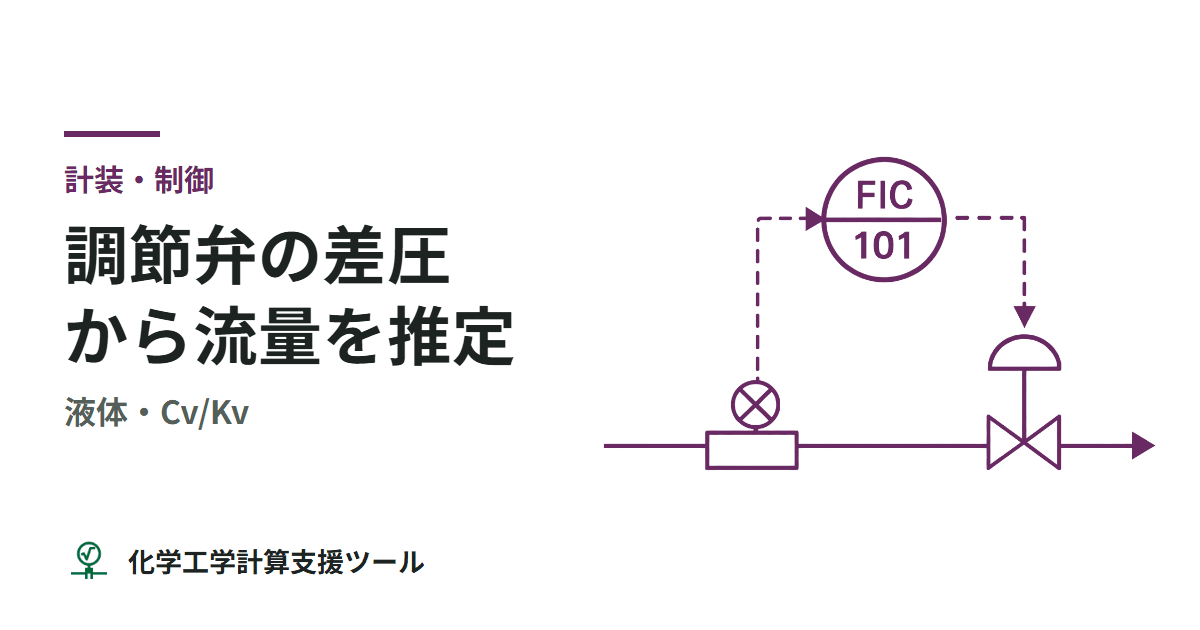
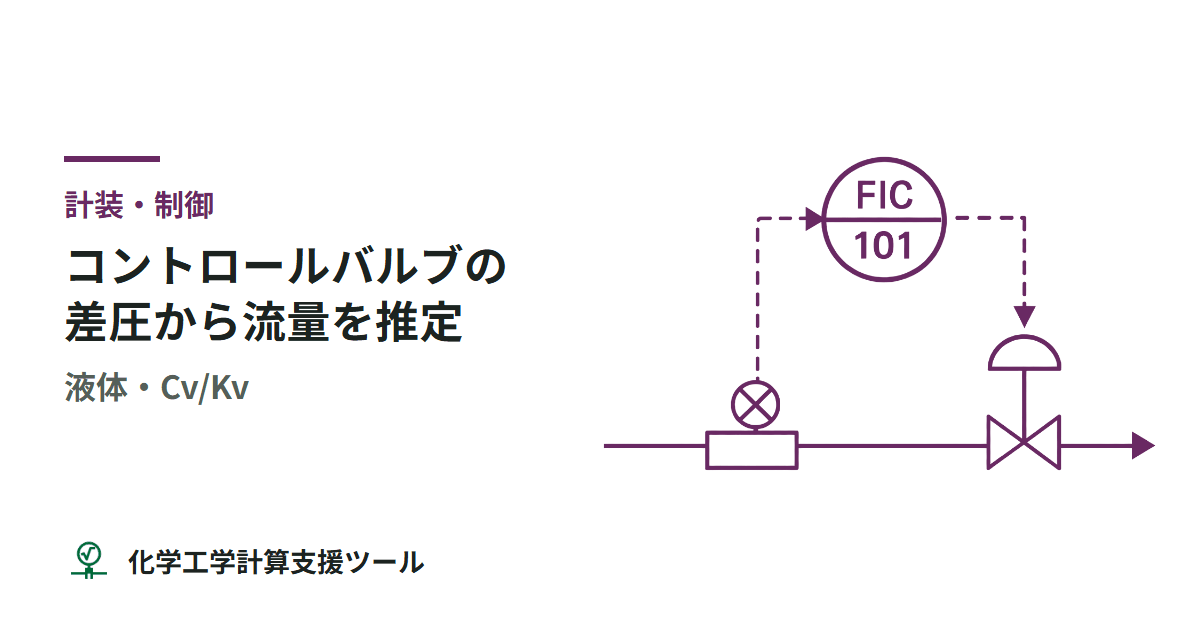
コントロールバルブの書き方にそろえ、差圧から流量を推定するツールの名前と4-20mA信号換算の解説を直す

Changed region(s): [[0.0308, 0.4825, 0.4317, 0.6937], [0.0308, 0.181, 0.4317, 0.4524]]

diff --git a/tools/instrumentation-control/control-valve-flow/index.html b/tools/instrumentation-control/control-valve-flow/index.html
@@ -3,7 +3,7 @@
 <head>
 <meta charset="UTF-8">
 <meta name="viewport" content="width=device-width, initial-scale=1.0">
-<title>調節弁の差圧から流量を推定（液体） | 化学工学計算支援ツール</title>
+<title>コントロールバルブ（調節弁）の差圧から流量を推定（液体） | 化学工学計算支援ツール</title>
 
 
 <link rel="canonical" href="https://tools.chem-fac.com/tools/instrumentation-control/control-valve-flow/">
@@ -18,7 +18,7 @@
 <meta property="og:locale" content="ja_JP">
 <meta name="twitter:card" content="summary_large_image">
 <meta name="twitter:site" content="@chem_fac">
-<script type="application/ld+json">{"@context":"https://schema.org","@type":"WebApplication","name":"調節弁の差圧から流量を推定（液体）","url":"https://tools.chem-fac.com/tools/instrumentation-control/control-valve-flow/","applicationCategory":"EngineeringApplication","operatingSystem":"Any","description":"調節弁の実効CvまたはKv、差圧、運転密度から水・低粘度液体の流量を簡易計算。P1−P2と直接差圧の入力、kPa・MPa・barに対応します。","inLanguage":"ja","isAccessibleForFree":true,"keywords":"調節弁, Cv, Kv, 実効Cv, 差圧, 流量, 液体, 水, 密度, control valve","about":"計装・制御","author":{"@type":"Person","name":"かねまる","url":"https://chem-fac.com/about-chemfac/"},"dateModified":"2026-10-31"}</script>
+<script type="application/ld+json">{"@context":"https://schema.org","@type":"WebApplication","name":"コントロールバルブの差圧から流量を推定（液体）","url":"https://tools.chem-fac.com/tools/instrumentation-control/control-valve-flow/","applicationCategory":"EngineeringApplication","operatingSystem":"Any","description":"コントロールバルブの実効CvまたはKv、差圧、運転密度から水・低粘度液体の流量を簡易計算。P1−P2と直接差圧の入力、kPa・MPa・barに対応します。","inLanguage":"ja","isAccessibleForFree":true,"keywords":"コントロールバルブ, 調節弁, Cv, Kv, 実効Cv, 差圧, 流量, 液体, 水, 密度, control valve","about":"計装・制御","author":{"@type":"Person","name":"かねまる","url":"https://chem-fac.com/about-chemfac/"},"dateModified":"2026-10-31"}</script>
 <link rel="preconnect" href="https://fonts.googleapis.com">
 <link rel="preconnect" href="https://fonts.gstatic.com" crossorigin>
 <link href="https://fonts.googleapis.com/css2?family=Noto+Sans+JP:wght@400;500;600;700&display=swap" rel="stylesheet">
@@ -35,10 +35,10 @@
 
 <script async src="https://www.googletagmanager.com/gtag/js?id=G-7MQ7VEMWHY"></script>
 <script>window.dataLayer=window.dataLayer||[];function gtag(){dataLayer.push(arguments);}gtag('js',new Date());gtag('config','G-7MQ7VEMWHY');</script>
-<meta name="description" content="調節弁の実効CvまたはKv、差圧、運転密度から水・低粘度液体の流量を簡易計算。P1−P2と直接差圧の入力、kPa・MPa・barに対応します。">
-<meta name="keywords" content="調節弁, Cv, Kv, 実効Cv, 差圧, 流量, 液体, 水, 密度, control valve">
-<meta property="og:title" content="調節弁の差圧から流量を推定（液体） | 化学工学計算支援ツール">
-<meta property="og:description" content="調節弁の実効CvまたはKv、差圧、運転密度から水・低粘度液体の流量を簡易計算。P1−P2と直接差圧の入力、kPa・MPa・barに対応します。">
+<meta name="description" content="コントロールバルブの実効CvまたはKv、差圧、運転密度から水・低粘度液体の流量を簡易計算。P1−P2と直接差圧の入力、kPa・MPa・barに対応します。">
+<meta name="keywords" content="コントロールバルブ, 調節弁, Cv, Kv, 実効Cv, 差圧, 流量, 液体, 水, 密度, control valve">
+<meta property="og:title" content="コントロールバルブ（調節弁）の差圧から流量を推定（液体） | 化学工学計算支援ツール">
+<meta property="og:description" content="コントロールバルブの実効CvまたはKv、差圧、運転密度から水・低粘度液体の流量を簡易計算。P1−P2と直接差圧の入力、kPa・MPa・barに対応します。">
 <meta property="og:url" content="https://tools.chem-fac.com/tools/instrumentation-control/control-valve-flow/">
 <meta property="og:image" content="https://tools.chem-fac.com/assets/img/og/tools-instrumentation-control-control-valve-flow.png">
 <meta property="og:image:width" content="1200">
@@ -54,9 +54,9 @@
 </header>
 
 <main class="tool-page tool-page-wide">
-<nav class="breadcrumb" aria-label="パンくず"><a href="../../../">ホーム</a><span class="sep">›</span><a href="../">計装・制御</a><span class="sep">›</span><span class="current">調節弁の差圧から流量を推定</span></nav>
-<section class="tool-hero tool-hero-simple"><div class="tool-hero-content"><span class="cat-tag" data-cat="instrumentation-control">計装・制御</span><h1>調節弁の差圧から流量を推定（液体）</h1>
-<p class="tool-subcopy">調節弁の実効CvまたはKv、弁前後の差圧、運転密度から、水・低粘度液体の体積流量を簡易計算します。</p>
+<nav class="breadcrumb" aria-label="パンくず"><a href="../../../">ホーム</a><span class="sep">›</span><a href="../">計装・制御</a><span class="sep">›</span><span class="current">コントロールバルブの差圧から流量を推定</span></nav>
+<section class="tool-hero tool-hero-simple"><div class="tool-hero-content"><span class="cat-tag" data-cat="instrumentation-control">計装・制御</span><h1>コントロールバルブの差圧から流量を推定（液体）</h1>
+<p class="tool-subcopy">コントロールバルブの実効CvまたはKv、弁前後の差圧、運転密度から、水・低粘度液体の体積流量を簡易計算します。</p>
 </div></section>
 
 <section class="calc-card calc-card-stacked calc-card-stacked-input-grid" id="calculator">

diff --git a/tools/instrumentation-control/index.html b/tools/instrumentation-control/index.html
@@ -4,12 +4,12 @@
 <meta charset="UTF-8">
 <meta name="viewport" content="width=device-width, initial-scale=1.0">
 <title>計装・制御カテゴリ | 化学工学計算支援ツール</title>
-<meta name="description" content="計装・制御カテゴリの計算ツール一覧。プロセス制御・PID・計測機器・調節弁の検討に役立つツールを集めます。">
+<meta name="description" content="計装・制御カテゴリの計算ツール一覧。プロセス制御・PID・計測機器・コントロールバルブの検討に役立つツールを集めます。">
 <link rel="canonical" href="https://tools.chem-fac.com/tools/instrumentation-control/">
 <meta property="og:type" content="website">
 <meta property="og:site_name" content="化学工学計算支援ツール">
 <meta property="og:title" content="計装・制御カテゴリ | 化学工学計算支援ツール">
-<meta property="og:description" content="計装・制御カテゴリの計算ツール一覧。プロセス制御・PID・計測機器・調節弁の検討に役立つツールを集めます。">
+<meta property="og:description" content="計装・制御カテゴリの計算ツール一覧。プロセス制御・PID・計測機器・コントロールバルブの検討に役立つツールを集めます。">
 <meta property="og:url" content="https://tools.chem-fac.com/tools/instrumentation-control/">
 <meta property="og:image" content="https://tools.chem-fac.com/assets/img/og/tools-instrumentation-control.png">
 <meta property="og:image:width" content="1200">
@@ -64,7 +64,7 @@
     <div class="tool-hero-content">
       <span class="cat-tag">カテゴリ</span>
       <h1>計装・制御</h1>
-      <p class="tool-subcopy">プロセス制御・PID・計測機器・調節弁に関するツールをまとめます。</p>
+      <p class="tool-subcopy">プロセス制御・PID・計測機器・コントロールバルブに関するツールをまとめます。</p>
     </div>
   </section>
 
@@ -83,7 +83,7 @@
     <div class="tool-list" id="toolList">
       <a href="dp-level/" class="tool-list-card" data-keywords="差圧液面計 液面計 液位 レベル LRV URV スパン 乾式導圧管 湿式導圧管 ドライレグ ウェットレグ dp level differential pressure"><div class="tool-list-card-body"><span class="tool-list-cat">計装・制御</span><h3 class="tool-list-title">差圧液面計のレンジ計算（密閉・開放）</h3><p class="tool-list-desc">液位範囲、液密度、取り出し位置と差圧伝送器の高低差からLRV・URV・スパンを計算します。</p></div><span class="tool-list-arrow">›</span></a>
 
-      <a href="control-valve-flow/" class="tool-list-card" data-keywords="調節弁 Cv Kv 実効Cv 流量係数 差圧 液体 水 密度 control valve flow"><div class="tool-list-card-body"><span class="tool-list-cat">計装・制御</span><h3 class="tool-list-title">調節弁の差圧から流量を推定（液体）</h3><p class="tool-list-desc">実効CvまたはKv、弁前後の差圧、運転密度から、水・低粘度液体の流量を簡易計算します。</p></div><span class="tool-list-arrow">›</span></a>
+      <a href="control-valve-flow/" class="tool-list-card" data-keywords="コントロールバルブ 調節弁 Cv Kv 実効Cv 流量係数 差圧 液体 水 密度 control valve flow"><div class="tool-list-card-body"><span class="tool-list-cat">計装・制御</span><h3 class="tool-list-title">コントロールバルブの差圧から流量を推定（液体）</h3><p class="tool-list-desc">実効CvまたはKv、弁前後の差圧、運転密度から、水・低粘度液体の流量を簡易計算します。</p></div><span class="tool-list-arrow">›</span></a>
 
 
       <a href="ma-signal/" class="tool-list-card"

diff --git a/tools/index.html b/tools/index.html
@@ -273,7 +273,7 @@
         <section class="ta-cat" id="c-instrumentation-control" data-c="instrumentation-control">
           <ul class="ta-tools">
             <li><a class="ta-row" href="instrumentation-control/dp-level/" data-kw="差圧液面計 液面計 液位 レベル LRV URV スパン 乾式導圧管 湿式導圧管 ドライレグ ウェットレグ dp level differential pressure"><h3 class="ta-rname">差圧液面計のレンジ計算（密閉・開放）</h3><span class="ta-rdesc">液位範囲、液密度、取り出し位置と差圧伝送器の高低差からLRV・URV・スパンを計算します。開放タンクと密閉タンクの乾式・湿式導圧管に対応します。</span></a></li>
-            <li><a class="ta-row" href="instrumentation-control/control-valve-flow/" data-kw="調節弁 Cv Kv 実効Cv 差圧 流量 液体 水 密度 control valve"><h3 class="ta-rname">調節弁の差圧から流量を推定（液体）</h3><span class="ta-rdesc">調節弁の実効CvまたはKv、差圧、運転密度から水・低粘度液体の流量を簡易計算。P1−P2と直接差圧の入力、kPa・MPa・barに対応します。</span></a></li>
+            <li><a class="ta-row" href="instrumentation-control/control-valve-flow/" data-kw="コントロールバルブ 調節弁 Cv Kv 実効Cv 差圧 流量 液体 水 密度 control valve"><h3 class="ta-rname">コントロールバルブの差圧から流量を推定（液体）</h3><span class="ta-rdesc">コントロールバルブの実効CvまたはKv、差圧、運転密度から水・低粘度液体の流量を簡易計算。P1−P2と直接差圧の入力、kPa・MPa・barに対応します。</span></a></li>
             <li><a class="ta-row" href="instrumentation-control/ma-signal/" data-kw="4-20mA 4～20mA 420mA 電流信号 スケーリング レンジ換算 工業量 開平 開平演算 差圧式流量計 伝送器 発信器 1-5V ライブゼロ NAMUR NE43 調節計 LRV URV current loop signal scaling"><h3 class="ta-rname">4-20mA信号換算（スケーリング・開平）</h3><span class="ta-rdesc">計装の4-20mA電流信号を％・工業量（温度・圧力・流量など）に相互換算します。差圧式流量計の開平換算、1-5V電圧換算、NAMUR NE43に基づくレンジ外判定に対応。</span></a></li>
           </ul>
         </section>

diff --git a/assets/js/search.js b/assets/js/search.js
@@ -7,10 +7,10 @@
       keywords: ["差圧液面計", "液面計", "液位", "レベル", "LRV", "URV", "スパン", "乾式導圧管", "湿式導圧管", "ドライレグ", "ウェットレグ", "dp level", "differential pressure"]
     },
     {
-      title: "調節弁の差圧から流量を推定（液体）",
+      title: "コントロールバルブの差圧から流量を推定（液体）",
       url: "tools/instrumentation-control/control-valve-flow/",
       category: "計装・制御",
-      keywords: ["調節弁", "Cv", "Kv", "実効Cv", "差圧", "流量", "液体", "水", "密度", "control valve"]
+      keywords: ["コントロールバルブ", "調節弁", "Cv", "Kv", "実効Cv", "差圧", "流量", "液体", "水", "密度", "control valve"]
     },
     {
       title: "レイノルズ数（配管）",
@@ -371,7 +371,7 @@
       title: "計装・制御（カテゴリ）",
       url: "tools/instrumentation-control/",
       category: "カテゴリ",
-      keywords: ["計装", "制御", "プロセス制御", "PID", "センサ", "トランスミッタ", "調節弁", "制御弁", "流量計", "温度計", "圧力計", "instrumentation", "control", "process control"]
+      keywords: ["計装", "制御", "プロセス制御", "PID", "センサ", "トランスミッタ", "コントロールバルブ", "調節弁", "制御弁", "流量計", "温度計", "圧力計", "instrumentation", "control", "process control"]
     },
     {
       title: "0.6乗則・0.7乗則による設備費の換算",

diff --git a/tools/instrumentation-control/ma-signal/index.html b/tools/instrumentation-control/ma-signal/index.html
@@ -144,7 +144,7 @@
     <h3>ライブゼロ</h3>
     <p>4mA を 0% に割り当てる「ライブゼロ」には、信号 0mA（断線・電源喪失）と測定値 0% を区別できる、2線式伝送器の動作電流を確保できる、という利点があります。</p>
     <h3>開度信号</h3>
-    <p>調節弁の開度信号（4-20mA → 開度 0〜100%）にも使えます。LRV=0、URV=100 としてください。</p>
+    <p>コントロールバルブの開度信号（4-20mA → 開度 0〜100%）にも使えます。LRV=0、URV=100 としてください。</p>
     <h3>空気式計装</h3>
     <p>空気式計装の統一信号は 20〜100 kPa です。0% が 20 kPa に対応する考え方は 4-20mA と同じです。</p>
   </section>

diff --git a/tools/instrumentation-control/dp-level/index.html b/tools/instrumentation-control/dp-level/index.html
@@ -113,7 +113,7 @@
 </section>
 <section class="related"><h3>関連ツール</h3><div class="related-grid">
 <a class="related-card" href="../ma-signal/"><span class="small">計装制御</span>4-20mA信号換算（スケーリング・開平）</a>
-<a class="related-card" href="../control-valve-flow/"><span class="small">計装制御</span>調節弁の差圧から流量を推定（液体）</a>
+<a class="related-card" href="../control-valve-flow/"><span class="small">計装制御</span>コントロールバルブの差圧から流量を推定（液体）</a>
 </div></section>
 </main>
 <footer class="site-footer"><div class="footer-inner">

diff --git a/index.html b/index.html
@@ -233,7 +233,7 @@
         <li>
           <span class="date">2026/10/31</span>
           <span class="update-kind update-kind--tool">ツール追加</span>
-          <span class="item-name"><a href="tools/instrumentation-control/control-valve-flow/">調節弁の差圧から流量を推定（液体）を公開しました</a></span>
+          <span class="item-name"><a href="tools/instrumentation-control/control-valve-flow/">コントロールバルブの差圧から流量を推定（液体）を公開しました</a></span>
         </li>
         <li>
           <span class="date">2026/10/21</span>

diff --git a/updates/index.html b/updates/index.html
@@ -92,7 +92,7 @@
     <li>
       <span class="date">2026/10/31</span>
       <span class="update-kind update-kind--tool">ツール追加</span>
-      <span class="item-name"><a href="../tools/instrumentation-control/control-valve-flow/">調節弁の差圧から流量を推定（液体）を公開しました</a></span>
+      <span class="item-name"><a href="../tools/instrumentation-control/control-valve-flow/">コントロールバルブの差圧から流量を推定（液体）を公開しました</a></span>
     </li>
     <li>
       <span class="date">2026/10/21</span>
